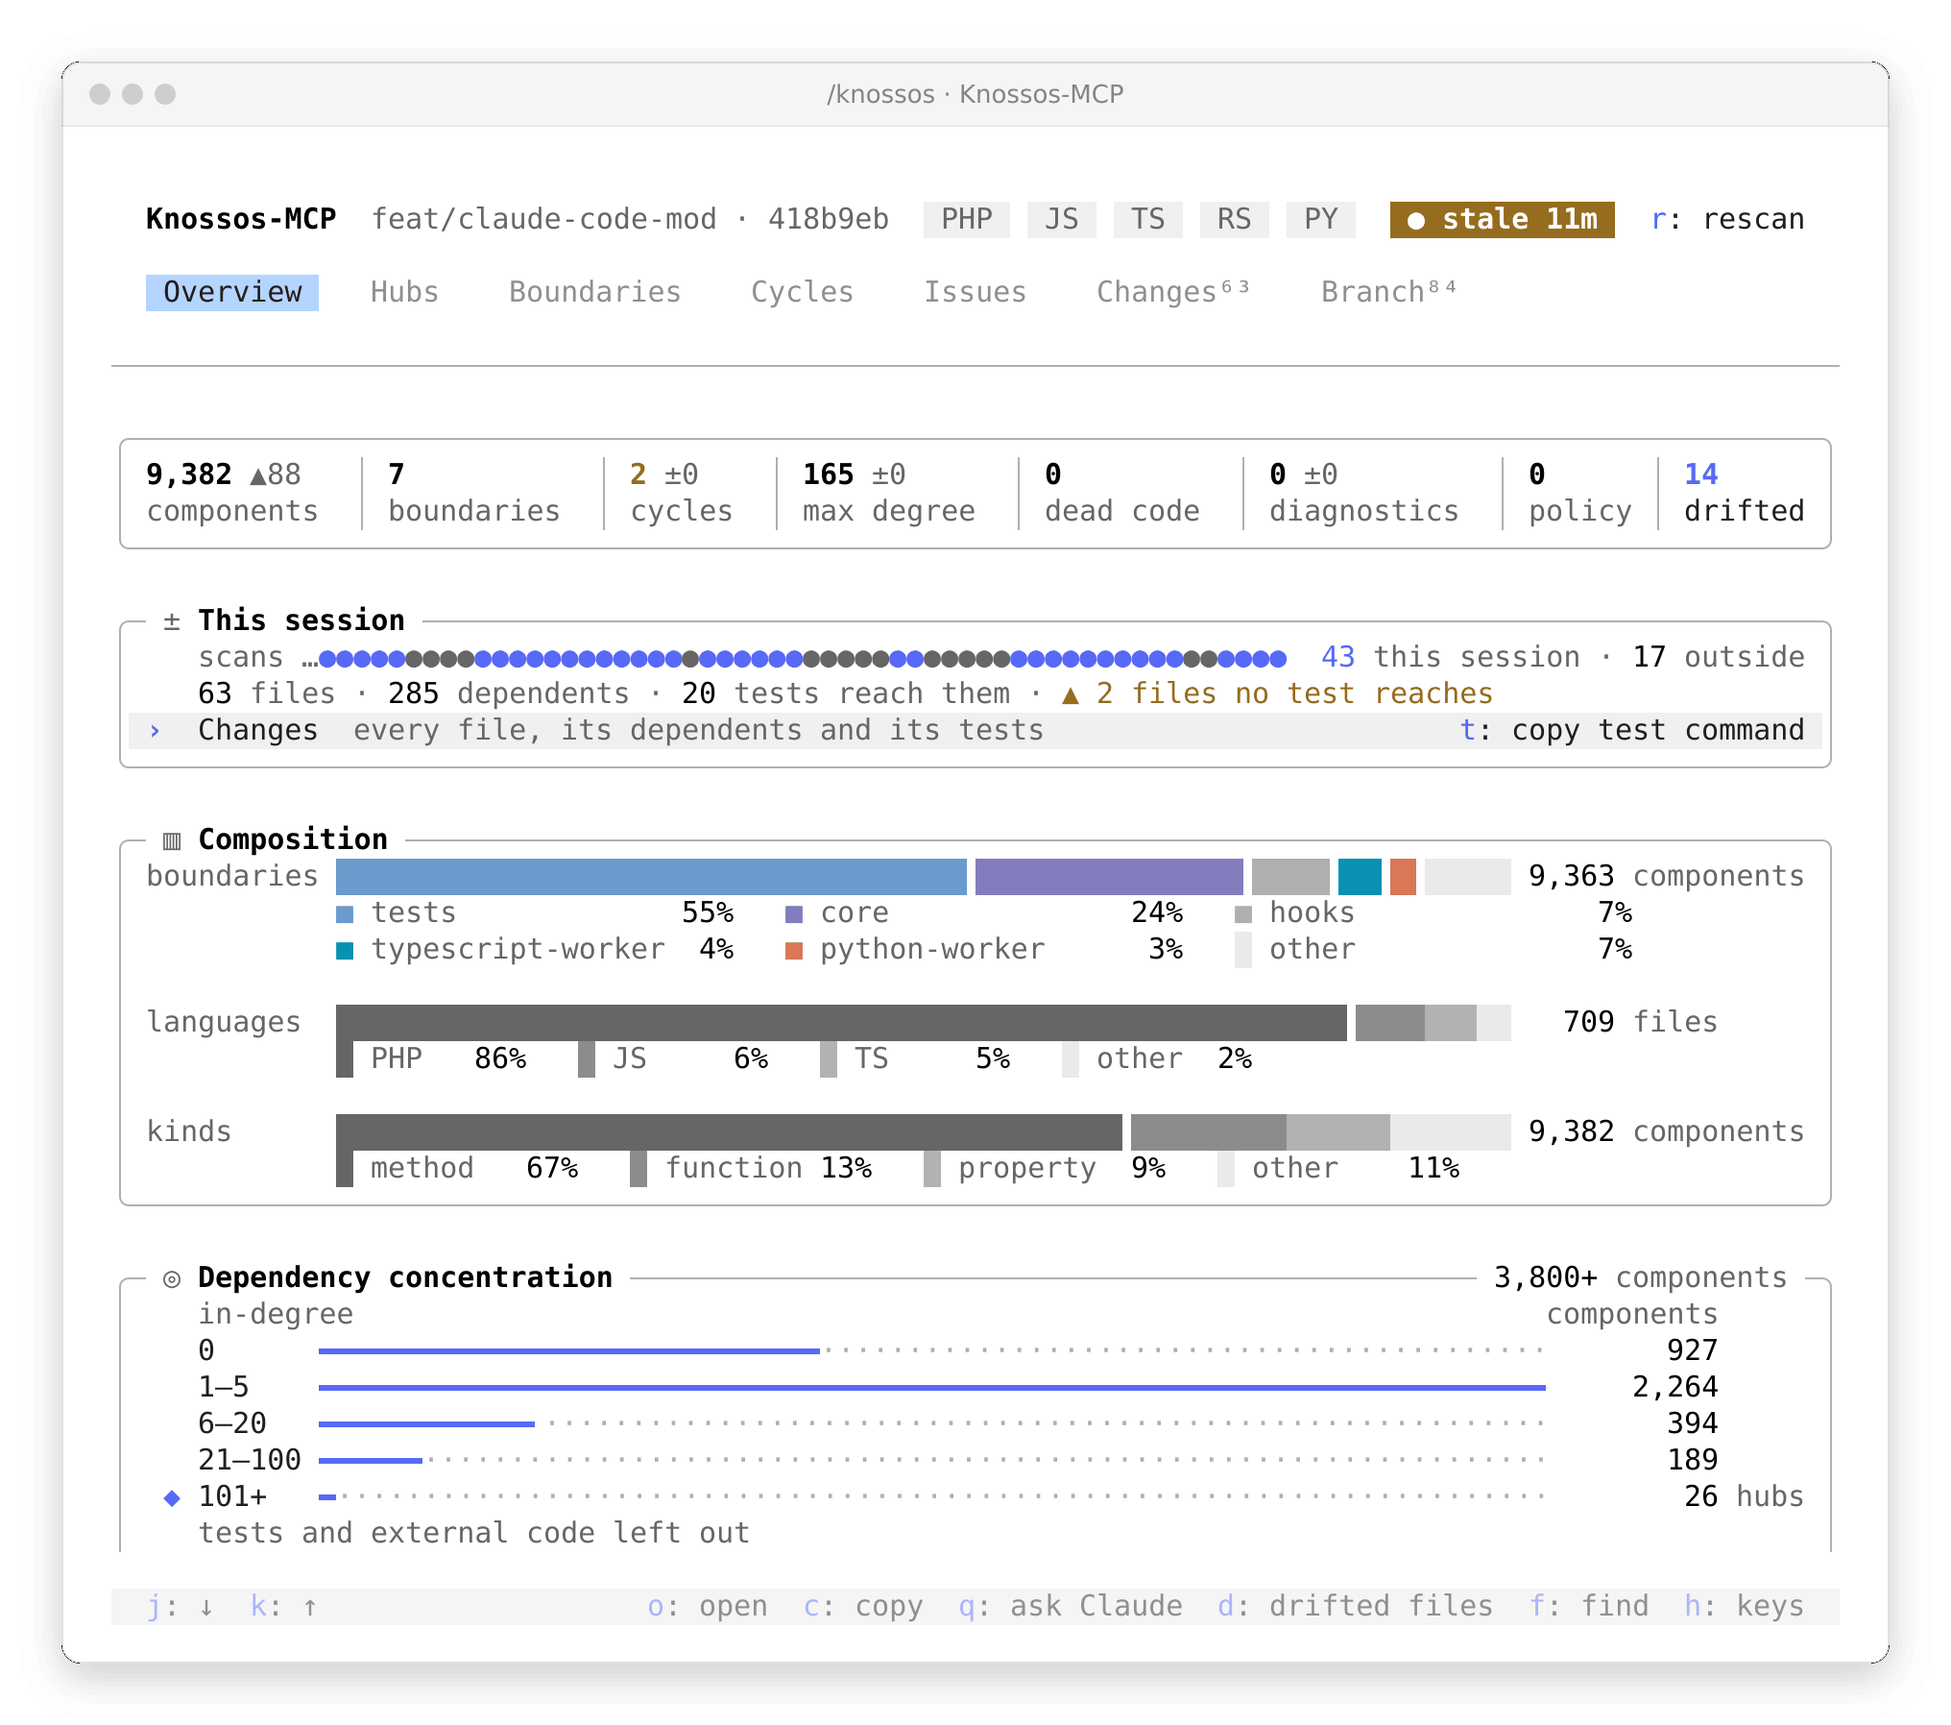
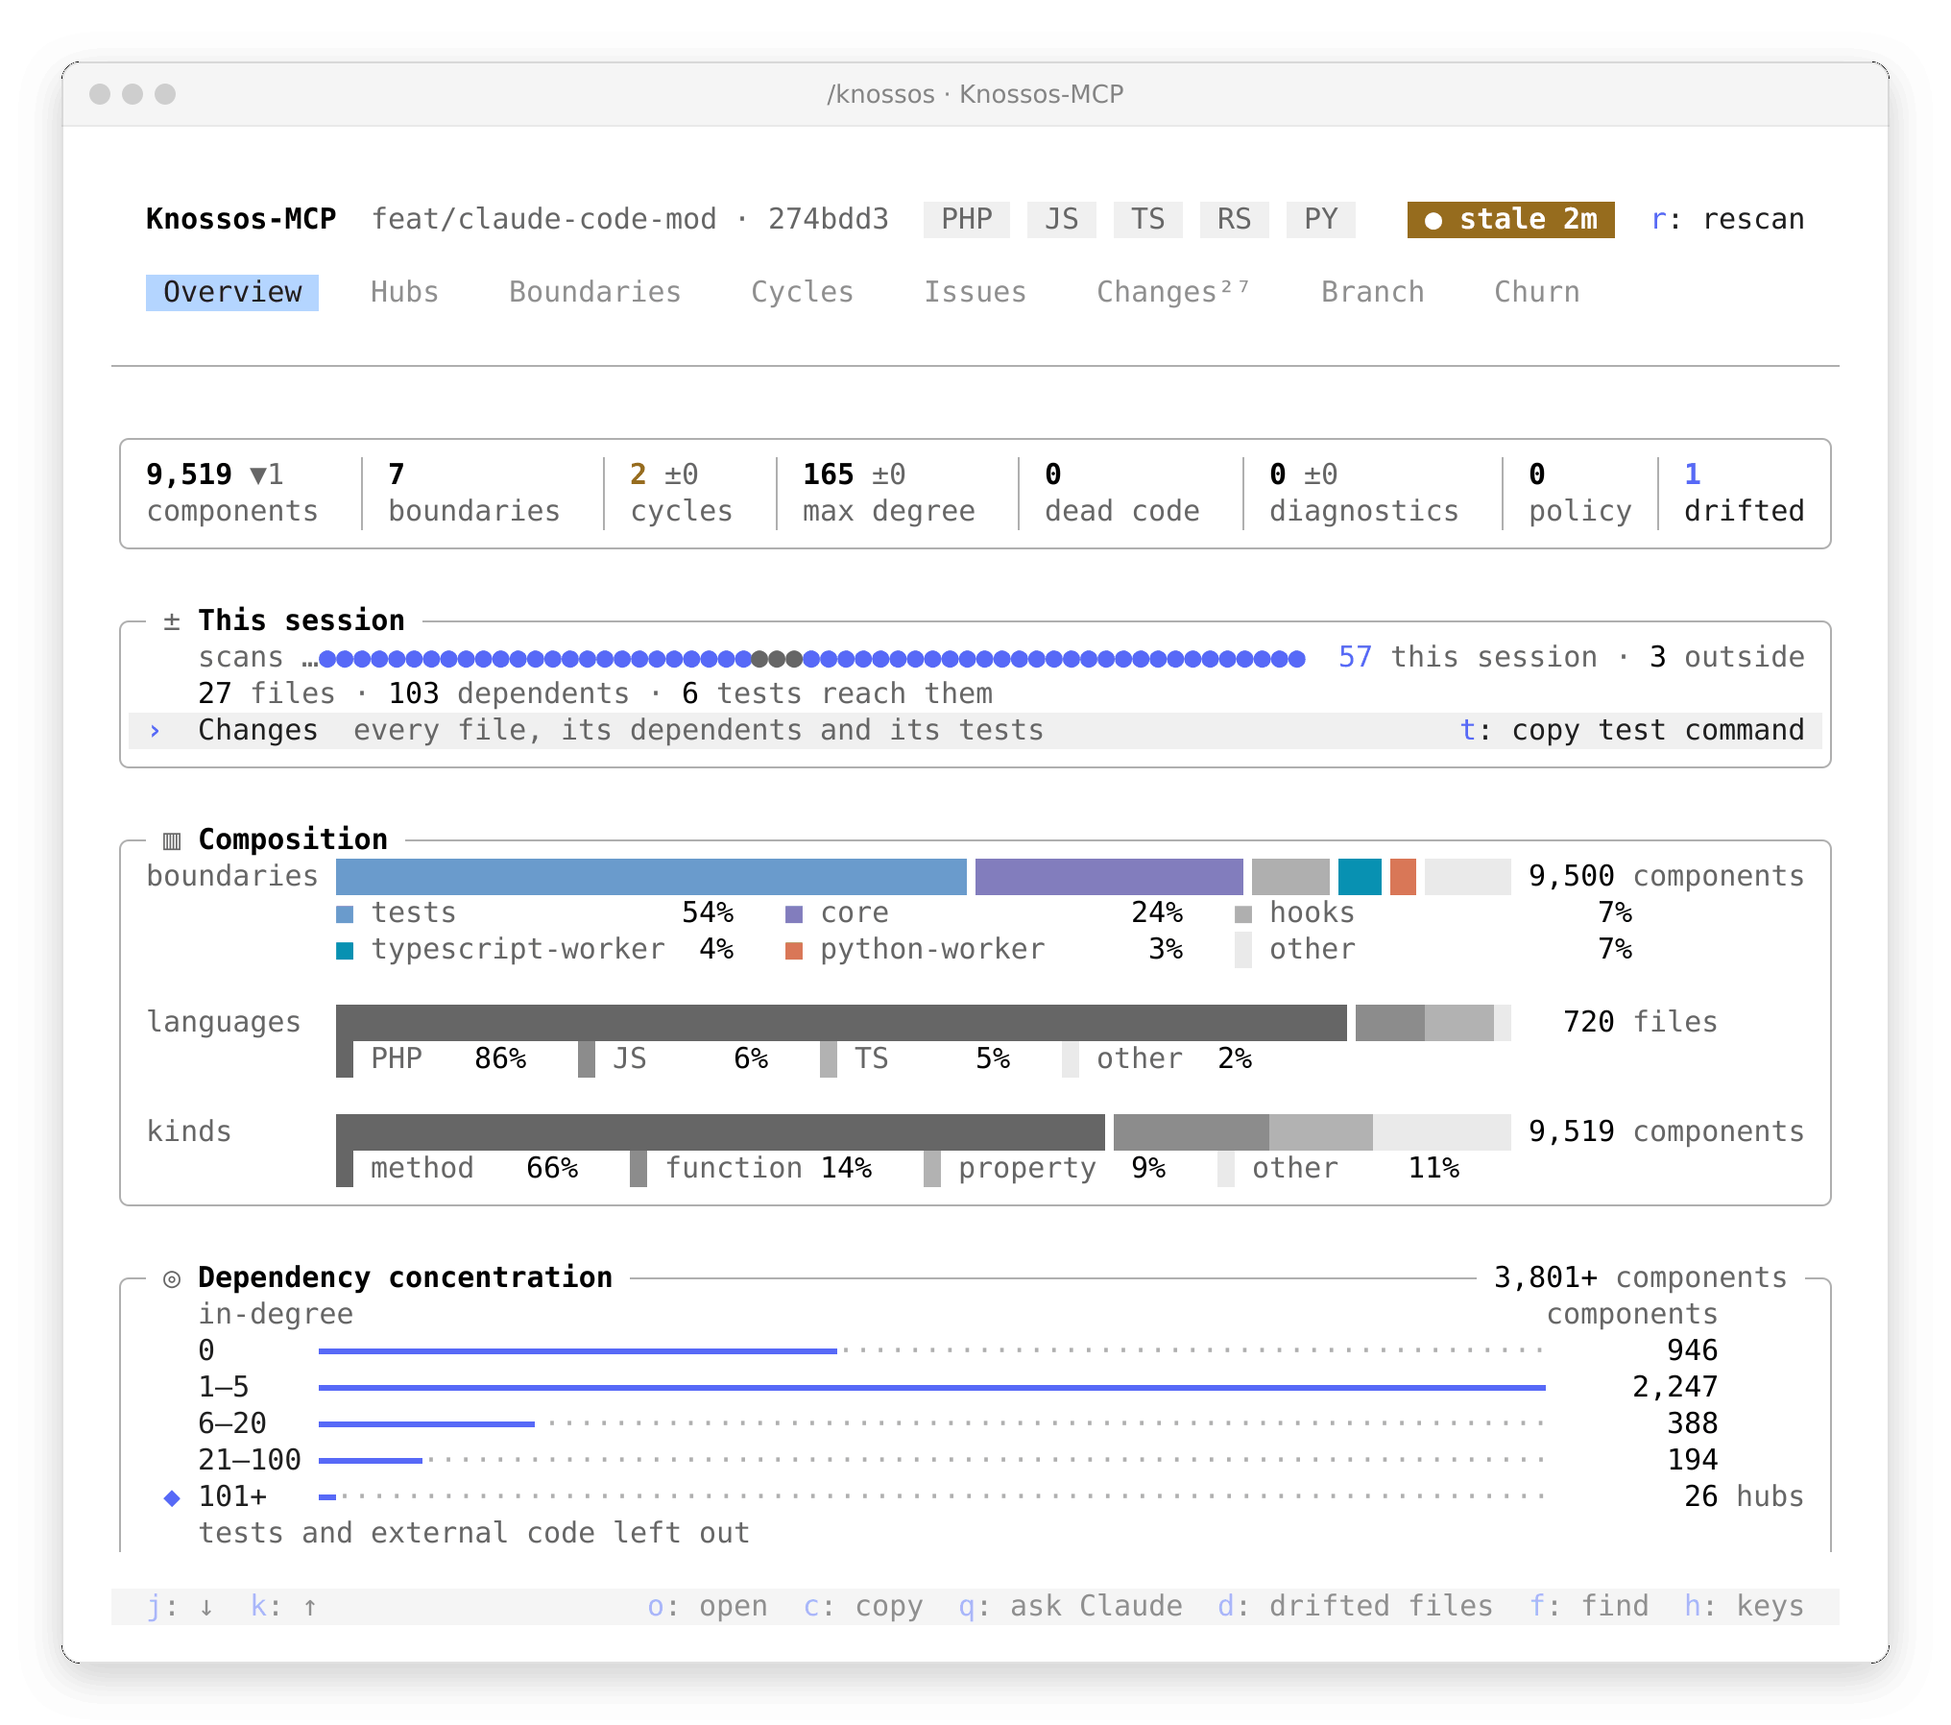
docs(mod): describe the Churn tab, the blast radius rings, the path explorer, notes from a detail, the toasts for new cycles and violations and the installer's clean-up, and redraw the README screenshots

diff --git a/docs/capabilities/claude-code-mod.md b/docs/capabilities/claude-code-mod.md
@@ -197,7 +197,8 @@ this session and changes, `▥` the composition and the per-boundary table,
 the cross-boundary flows, the marked heat map cell and a detail's
 dependencies, `≡` the files most depended on, `▦` the boundary map, `◈` the
 marked boundary, `↻` cycles, `!` the Issues cards, `✓` the tests that reach
-the changes, `◇` a detail. A card with nothing to list is one line: its
+the changes, `◇` a detail, `∴` the churn scatter, `◎` a blast radius, `⇢` a
+route, `✎` the notes. A card with nothing to list is one line: its
 title and its note (or `none`) set into a rule, at every width. Cards stand
 one blank row apart; labels are dim, numbers right-aligned.
 
@@ -213,7 +214,7 @@ Changes the files beside the tests; Issues the cards with nothing to list side
 by side as one-line rules first, then the lists in pairs. Cycles and a
 detail stand in one column at every width, since a diagram wants the room.
 
-Past 130 columns, Hubs, Changes, Issues, Cycles and Branch are master and
+Past 130 columns, Hubs, Changes, Issues, Cycles, Branch and Churn are master and
 detail: the tab on the left (55 percent, as a medium pane lays it out) and,
 beside it, the detail of the marked row, a component's neighbourhood or a
 file's dependents (with its change since the session began, drawn as text
@@ -225,9 +226,14 @@ shows the tab alone. Boundaries keeps its own grid, whose lower row already
 spells out the marked boundary and its cell. Narrower panes open a row with
 `o`, as before.
 
-The cards stretch to the pane's foot: the last card of a column, or the rows
-of cards side by side in a grid, take the rows left over, so nothing ends
-above blank space. On a tall Overview the rows left after the charts go to
+The cards stretch to the pane's foot: the last framed card of a column, or
+the rows of framed cards side by side in a grid, take the rows left over,
+so nothing ends above blank space. A card with nothing to list is one line
+with no frame to stretch: it stands on a line of its own (just before the
+cards it was beside) and never takes a share of the spare rows, so no gap
+opens under it; when every list of a grid is empty, the card across the top
+takes the height. On a tall Branch tab the spare rows go to the churn
+hotspots (see below), each a link to its file. On a tall Overview the rows left after the charts go to
 two secondary lists, the complexity hotspots and the files most depended
 on, each a link to its file; on a shorter pane they are left out, and the
 marker never walks them, so what it walks does not depend on the height.
@@ -271,7 +277,59 @@ nothing. On the default branch itself, or without git, it says that too.
 The comparison is read when the tab opens and again for each new snapshot,
 never while another tab is open. The tab label counts what it found.
 
-Nothing the pane draws can wrap or push its card wider,Nothing the pane draws can wrap or push its card wider, on a terminal that
+The Churn tab (`8`) ranks the files changed most often in the last thirty
+days that much of the project depends on: commits in the window times the
+files that depend on the file, counted as the fan-in map counts them.
+`knossos churn` reads one `git log` (at most 500 commits, three seconds)
+and the graph's dependents for the files it names; the pane keeps the
+answer for the commit the checkout is at, so a new commit (not a new scan)
+reads it again. A scatter draws every listed file, commits across and
+dependents up on a log scale from the fewest listed to the most, the nine
+highest scores as their rank digits and the marked file as the accent dot;
+under it the ranked list, each file with its commits, its dependents and a
+bar for its score, opening its detail. Without git the tab says so.
+
+A component's detail draws its blast radius: what depends on it one hop
+away, two hops away, and further (`knossos blast-radius`, at most six hops,
+1,500 components and two seconds), as concentric frames with the furthest
+ring outermost and the component in the middle. Each frame's top edge
+carries its hop, how many components it holds and whether a test reaches
+them all (`✓ all tested`) or how many no test reaches (`▲ 2 untested`, in
+the warning colour). Inside it, before the next ring in, its components
+(the untested first, each after a `▲`; a boundary named only where it is
+not the component's own) and the test files that reach the ring, nearest
+first. A test is no member of a ring; a component counts as tested when a
+test depends on it, directly or through others the search found. Every
+named component is a row the marker walks after the detail's own lists,
+and opens as its detail. Below 44 columns the rings are plain lists.
+
+`p` on a component's detail starts a route: the finder opens over the
+pane, offering components only, and the one you open is where the route
+ends. `knossos path-between` finds the routes between the two (at most
+six hops and five routes, the strongest first); when only the other way
+has one, the pane draws that and says so in the warning colour. The route
+is drawn as boxes down the pane, each framed in its boundary's colour with
+the boundary beside it, each hop an arrow labelled with its kind and the
+file and line it is written at; every route found is listed above it, told
+from the last component they all share, and a press draws another. Each
+box opens its component; `b` goes back to the detail the route began on.
+
+`m` on a component's detail adds a note to it (`knossos annotate`, the
+`note` kind of the `annotate_component` tool). A field opens in the notes
+card, holding the note there is; Enter has knossos check it (a preview,
+nothing written) and the card asks `Record this note on StableId?`, saying
+what it replaces. Only `y` (or the `record` button) writes it; `n` drops
+it. A refusal (an ambiguous name, a note too long) is said in the card.
+The detail is read again once the note is recorded, so it shows.
+
+When a scan brings a dependency cycle or a policy violation the graph did
+not hold before, the mod says so in a toast, once per cycle or violation a
+session: `knossos: a new dependency cycle of 3: Router → Handler → Store →
+Router`. Only between two snapshots of the same project, never for the
+first graph a session sees; a scan that brings more than three says the
+rest as one count. The `notifications` setting turns these off.
+
+Nothing the pane draws can wrap or push its card wider, on a terminal that
 counts cells as the layout does or not: every row is a box as wide as the
 pane that clips what passes its edge, every text in it cuts at that edge
 with an ellipsis, and a pressable name draws the name as the layout cut it,
@@ -715,7 +773,7 @@ what can be done to the marked row on the right, only the keys that do
 something in the view on show. For a moment after an action the footer says
 what it did, between the two (`✓ copied StableId`, `✓ opened in editor`,
 `✗ no editor · path copied`, in the success or error colour); the mod's age
-tick lets it fade after about two seconds. `1` to `7` switch tabs, `f` opens the finder, `j` and `k` move the `›` marker (as does moving the focus with
+tick lets it fade after about two seconds. `1` to `8` switch tabs, `f` opens the finder, `p` starts a route and `m` a note on a component's detail, `j` and `k` move the `›` marker (as does moving the focus with
 Tab or the arrows onto a row), `o` or Enter opens the marked row, `e` opens
 the marked row's file in your editor, `c` copies and `q` asks about it, `t`
 copies the test command, `d` lists the drifted files, `l` moves the
@@ -1008,6 +1066,7 @@ percent of one core.
 | `openPaneOnStart` | `false` | Opens the pane when a session starts, on a wide enough terminal.   |
 | `watch`           | `true`  | Runs the live watcher for an allowed, scanned project.             |
 | `watchPollMs`     | `1000`  | How often the watcher looks for changes (250 to 60000 ms).         |
+| `notifications`   | `true`  | Toasts each new cycle or policy violation a scan brings, once.     |
 
 They appear in Claude Code's config menu under the plugin's name.
 
@@ -1024,7 +1083,9 @@ project the oldest are merged into one bounded span). The watcher also writes it
 `watch/` beside the database. They happen only for a project that
 is already scanned and inside an allowed root, never inside a hook dispatch,
 and never two at a time within a session. The pane's allow-root action writes
-the roots file, and only after you confirmed it. `knossos dashboard` and
+the roots file, and only after you confirmed it; a note added on a
+component's detail writes one row of the `annotations` table, also only after
+you confirmed it (`knossos annotate --execute`). `knossos dashboard` and
 `knossos component-detail` and `knossos file-detail` only read the graph, though like the scans they
 bring a database with an older schema up to date before they read it. One
 small exception: the dashboard writes trend cache rows. It keeps the figures
@@ -1057,6 +1118,12 @@ only when the server uses that too.
 knossos install-agent-plugin --data-dir="$HOME/.knossos" --execute
 ```
 
+An install over an earlier one deletes the files the earlier one left in the
+plugin's own directories that this one no longer ships (a module since
+renamed, say), and only those: never a subdirectory, never the target's own
+root (a `--out` directory may hold anything else), never through a linked
+directory. A failed install puts them back.
+
 ## When it stays silent
 
 - No `knossos` binary on the path or in the usual locations.
@@ -1080,13 +1147,19 @@ one log line and turns the band and pane off for the session.
 
 The wrapper bounds each call: 60 seconds for `turn-brief` and the pane's
 rescan, 30 for `dashboard` (a first dashboard of a large project walks the
-whole graph) and for `branch-diff` (two whole graphs compared), 15 for
+whole graph) and for `branch-diff` (two graphs compared, read one after the
+other with only the columns the comparison uses), 15 for
 `component-detail`, `file-detail`, `file-context`, `graph-search`,
+`churn`, `blast-radius`, `path-between`, `annotate`,
 `session-changes`, `session-head`, `session-diff`, `boundary-couplings` and
-`allow-root`. `file-context` takes one file inside the project directory, as
+`allow-root`. `churn` takes nothing but the project; `blast-radius` exactly
+`--component=`; `path-between` exactly `--from=` and `--to=`, in that order;
+`annotate` exactly `--component=` and `--value=` (one printable line of at
+most 2,000 characters) and, last, `--execute` when you confirmed the note,
+without which it writes nothing. `file-context` takes one file inside the project directory, as
 `file-detail` does; `graph-search` exactly `--query=` with one printable line
 of at most 200 characters; `branch-diff` nothing but the project. The
-container wrapper runs `file-context` and `branch-diff` as the image's user,
+container wrapper runs `file-context`, `branch-diff` and `churn` as the image's user,
 so git may refuse the mounted repository there: the context then has no
 commits, and the Branch tab says there is no git.
 `boundary-couplings` takes exactly `--from=` and `--to=`, in that order, each

diff --git a/README.md b/README.md
@@ -425,7 +425,7 @@ card. Every file there opens to the files that depend on it.
 
 ![The Changes tab, two files marked as reached by no test](docs/images/claude-code-mod/changes-dark.png)
 
-On a wide pane (past 130 columns) Hubs, Changes, Issues, Cycles and Branch stand beside the
+On a wide pane (past 130 columns) Hubs, Changes, Issues, Cycles, Branch and Churn stand beside the
 marked row's detail: move the marker and the neighbourhood, or a changed file's diff, follows
 it, without leaving the list. Paths are drawn in two tones, the directory dim and the file
 name bright, and a long one loses the middle of its directory, never its file name. Rows a
@@ -437,9 +437,32 @@ The Branch tab compares the branch with the retained snapshot at its merge base 
 default branch (found through git, locally): dependencies newly crossing from one boundary
 into another, new cycles, hubs that grew, new dead code and new policy violations, each
 opening its component. When no snapshot near the merge base is kept, it says so, and how
-partial the comparison against the nearest later one is.
+partial the comparison against the nearest later one is. A tall tab gives its spare rows to
+the churn hotspots.
 
-![The Branch tab, saying that no snapshot near the merge base is retained](docs/images/claude-code-mod/branch-dark.png)
+![The Branch tab, saying that no snapshot near the merge base is retained, with the churn hotspots under it](docs/images/claude-code-mod/branch-dark.png)
+
+The Churn tab ranks the files changed most often in the last thirty days that much of the
+project depends on: commits times dependent files. A scatter puts every listed file by its
+commits and its dependents, the nine highest scores drawn as their rank; the list under it
+opens each file. The history is read once per commit the checkout is at.
+
+![The Churn tab: a scatter of commits against dependents over the ranked list](docs/images/claude-code-mod/churn-dark.png)
+
+A component's detail draws its blast radius as concentric rings: what depends on it one hop
+away, two, and further, each ring saying how much of it a test reaches, its untested
+components first and marked, and the test files that reach it. `m` adds a note to the
+component from its detail: knossos checks it first, and only `y` records it. When a scan
+brings a new dependency cycle or policy violation, a toast says so once (the
+`notifications` setting turns that off).
+
+![A component's detail: its dependencies, and its blast radius in three rings around it](docs/images/claude-code-mod/detail-dark.png)
+
+`p` on a component's detail picks another component in the finder and draws the route
+between the two as boxes down the pane, each hop labelled with its kind and where it is
+written; every route found is listed above it.
+
+![The path explorer: every route found, and the first drawn as boxes](docs/images/claude-code-mod/route-dark.png)
 
 `f` opens a finder over every component and file: type letters of a name in order and Enter
 opens the first match. Hubs' own filter is now on `n`.
